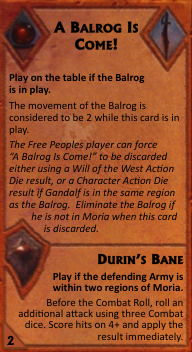
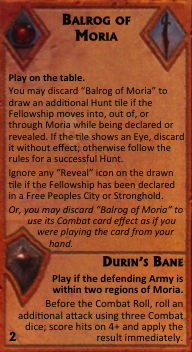
.

diff --git a/projects/wotr/src/lib/examples/there-is-another-way.ts b/projects/wotr/src/lib/examples/there-is-another-way.ts
@@ -1,0 +1,143 @@
+// https://www.youtube.com/watch?v=6kDLffpqd9A&ab_channel=WaroftheRingChamp
+
+import { WotrActionToken } from "../action-token/wotr-action-token.models";
+import { attack, combatCard, noCombatCard, reRollCombatDice, rollCombatDice } from "../battle/wotr-battle-actions";
+import { discardCardFromTable, drawCards, playCardOnTable } from "../card/wotr-card-actions";
+import { chooseRandomCompanion, eliminateCharacter, playCharacter, separateCompanions } from "../character/wotr-character-actions";
+import { changeGuide, corruptFellowship, declareFellowship, hideFellowship, moveFelloswhip, notDeclareFellowship, revealFellowship } from "../fellowship/wotr-fellowship-actions";
+import { WotrFreePeoplesStoryComposer, WotrShadowStoryComposer, WotrStoryDoc } from "../game/wotr-story.models";
+import { addHuntTile, drawHuntTile, reRollHuntDice, rollHuntDice } from "../hunt/wotr-hunt-actions";
+import { advanceNation } from "../nation/wotr-nation-actions";
+import { eliminateLeader, eliminateRegularUnit, leftUnits, moveArmy } from "../unit/wotr-unit-actions";
+import { elite, nazgul, regular } from "../unit/wotr-unit.models";
+
+let time = 1;
+export const stories: WotrStoryDoc[] = [
+  // Turn 1
+  fp (time).phaseStory (drawCards ("Swords in Eriador", "Challenge of the King")),
+  s ().phaseStory (drawCards ("Return to Valinor", "Balrog of Moria")),
+  fp ().phaseStory (notDeclareFellowship ()),
+  s ().huntAllocation (1),
+  fp (time).rollActionDice ("character", "muster-army", "character", "character"),
+  s ().rollActionDice ("muster-army", "muster-army", "muster", "character", "army", "eye"),
+  fp ().pass (),
+  s ().musterDie (advanceNation ("isengard")),
+  fp ().characterDie (moveFelloswhip ()),
+  s ().huntStory (rollHuntDice (4, 5)),
+  s ().characterDie (moveArmy ("barad-dur", "gorgoroth")),
+  fp ().characterDie (moveFelloswhip ()),
+  s ().huntStory (rollHuntDice (2, 6)),
+  s ().huntStory (drawHuntTile ("3")),
+  fp ().huntStory (
+    eliminateCharacter ("gandalf-the-grey"),
+    changeGuide ("strider")
+  ),
+  s ().armyDie (
+    moveArmy ("gorgoroth", "morannon", leftUnits (regular ("sauron", 3))),
+    moveArmy ("north-dunland", "moria")
+  ),
+  fp ().musterArmyDie (
+    moveArmy ("edoras", "westemnet"),
+    moveArmy ("carrock", "old-forest-road")
+  ),
+  s ().musterArmyDie (playCharacter ("orthanc", "saruman")),
+  fp ().characterDie (moveFelloswhip ()),
+  s ().huntStory (rollHuntDice (6, 2)),
+  s ().huntStory (drawHuntTile ("2r")),
+  fp ().huntStory (corruptFellowship (2)),
+  fp ().huntStory (revealFellowship ("goblins-gate")),
+  s ().musterArmyDie (
+    moveArmy ("moria", "dimrill-dale"),
+    moveArmy ("morannon", "dagorlad")
+  ),
+  fp ().skipTokens (),
+  // Turn 2 4:00
+  s (time).phaseStory (drawCards ("Give it to Uss!", "Threats and Promises")),
+  fp ().phaseStory (drawCards ("Axe and Bow", "Grimbeorn the Old, Son of Beorn")),
+  s ().huntAllocation (1),
+  fp (time).rollActionDice ("event", "muster", "character", "will-of-the-west"),
+  s ().rollActionDice ("army", "event", "eye", "army", "muster", "army", "event"),
+  fp ().musterAbilityDie ("strider", hideFellowship ()),
+  s ().eventDie (drawCards ("The Shadow Lengthens")),
+  fp ().willOfTheWestDie (playCharacter ("fangorn", "gandalf-the-white")),
+  s ().armyDie (
+    moveArmy ("dagorlad", "noman-lands"),
+    moveArmy ("far-harad", "near-harad")
+  ),
+  fp ().pass (),
+  s ().armyDie (
+    moveArmy ("noman-lands", "southern-rhovanion"),
+    moveArmy ("dol-guldur", "north-anduin-vale")
+  ),
+  fp ().pass (),
+  s ().armyDie (
+    moveArmy ("southern-rhovanion", "northern-rhovanion"),
+    moveArmy ("north-anduin-vale", "dimrill-dale")
+  ),
+  fp ().characterDie (moveFelloswhip ()),
+  s ().huntStory (rollHuntDice (3, 6)),
+  s ().huntStory (drawHuntTile ("3")),
+  fp ().huntStory (chooseRandomCompanion ("peregrin")),
+  fp ().characterReaction ("peregrin", separateCompanions ("carrock", "peregrin")),
+  fp ().huntStory (corruptFellowship (2)),
+  s ().musterDie (advanceNation ("sauron")),
+  fp ().eventDieCard ("Axe and Bow", playCardOnTable ("Axe and Bow")),
+  s ().eventDieCard ("Give it to Uss!", addHuntTile ("r1rs")),
+  fp ().skipTokens (),
+  // Turn 3 6:57
+  s (time).phaseStory (drawCards ("Lure of the Ring", "Stormcrow")),
+  fp ().phaseStory (drawCards ("The Ents Awake: Treebeard", "Kindred of Glorfindel")),
+  fp ().phaseStory (declareFellowship ("old-ford")),
+  s ().huntAllocation (1),
+  s (time).rollActionDice ("event", "character", "event", "event", "eye", "army", "character"),
+  fp ().rollActionDice ("muster-army", "will-of-the-west", "will-of-the-west", "will-of-the-west", "character"),
+  fp ().characterDie (moveFelloswhip ()),
+  s ().huntStory (rollHuntDice (4, 6)),
+  s ().huntStory (drawHuntTile ("0r")),
+  fp ().huntStory (revealFellowship ("carrock")),
+  s ().characterDie (attack ("northern-rhovanion", "old-forest-road")),
+  s ().battleStory (noCombatCard ()),
+  fp ().battleStory (combatCard ("Grimbeorn the Old, Son of Beorn")),
+  fp ().combatCardReaction ("Grimbeorn the Old, Son of Beorn", moveArmy ("old-forest-road", "woodland-realm")),
+  s ().battleStory (moveArmy ("northern-rhovanion", "old-forest-road")),
+  fp ().musterArmyAbilityDie ("strider", hideFellowship ()),
+  s ().armyDie (
+    moveArmy ("old-forest-road", "carrock", leftUnits (regular ("sauron", 8), elite ("sauron"), nazgul (1))),
+    moveArmy ("near-harad", "umbar", leftUnits (regular ("southrons", 1)))
+  ),
+  fp ().pass (),
+  s ().characterDie (attack ("old-forest-road", "dale")),
+  s ().battleStory (combatCard ("Stormcrow")),
+  fp ().battleStory (noCombatCard ()),
+  s (time).battleStory (rollCombatDice (1, 1, 1, 1, 1)),
+  fp ().battleStory (rollCombatDice (6)),
+  s ().battleStory (reRollCombatDice (1)),
+  s ().battleStory (eliminateRegularUnit ("old-forest-road", "sauron")),
+  fp ().combatCardReaction ("Stormcrow", eliminateRegularUnit ("dale", "north"), eliminateLeader ("dale", "north")),
+  s ().battleStory (moveArmy ("old-forest-road", "dale", leftUnits (regular ("sauron")))),
+  fp ().willOfTheWestDie (
+    moveArmy ("iron-hills", "erebor"),
+    moveArmy ("westemnet", "helms-deep")
+  ),
+  s ().eventDie (drawCards ("The Black Captain Commands")),
+  fp ().willOfTheWestDie (moveFelloswhip ()),
+  s ().huntStory (rollHuntDice (1, 2)),
+  s ().huntStory (reRollHuntDice (1, 6)),
+  s ().huntStory (drawHuntTile ("1")),
+  fp ().huntStory (discardCardFromTable ("Axe and Bow")),
+  s ().eventDieCard ("Balrog of Moria", playCardOnTable ("Balrog of Moria")),
+  fp ().actionToken ("political-advance", advanceNation ("elves")),
+  s ().eventDieCard ("The Shadow Lengthens",
+    moveArmy ("south-rhun", "north-rhun"),
+    moveArmy ("nurn", "minas-morgul")
+  ),
+  fp ().willOfTheWestDie (advanceNation ("elves")),
+  fp ().skipTokens (),
+  // Turn 4 17:47
+
+];
+
+export const fpTokens: WotrActionToken[] = ["draw-card", "political-advance"];
+
+function fp (t?: number) { if (!t) { t = time++; } return new WotrFreePeoplesStoryComposer (t); }
+function s (t?: number) { if (!t) { t = time++; } return new WotrShadowStoryComposer (t); }

diff --git a/projects/wotr/src/lib/card/wotr-card.models.ts b/projects/wotr/src/lib/card/wotr-card.models.ts
@@ -36,7 +36,7 @@ export type WotrCardLabel =
   "Phial of Galadriel" |
   "Smeagol Helps Nice Master" |
   "Mithril Coat and Sting" |
-  "Axe and Box" |
+  "Axe and Bow" |
   "Horns of Gondor" |
   "Wizard's Staff" |
   "Athelas" |
@@ -95,7 +95,7 @@ export type WotrCardLabel =
   "The Breaking of the Fellowship" |
   "Worn with Sorrow and Toil" |
   "Flocks of Crebain" |
-  "A Balrog is Come!" |
+  "Balrog of Moria" |
   "The Lidless Eye" |
   "Dreadful Spells" |
   "Grond, Hammer of the Unnderworld" |
@@ -174,7 +174,7 @@ const CARD_BY_ID: Record<WotrCardId, WotrCard> = {
   fpcha03: { id: "fpcha03", label: "Phial of Galadriel", combatLabel: "It is a Gift", combatTiming: 3 },
   fpcha04: { id: "fpcha04", label: "Smeagol Helps Nice Master", combatLabel: "It is a Gift", combatTiming: 3 },
   fpcha05: { id: "fpcha05", label: "Mithril Coat and Sting", combatLabel: "Blade of Westernesse", combatTiming: 6 },
-  fpcha06: { id: "fpcha06", label: "Axe and Box", combatLabel: "Mighty Attack", combatTiming: 4 },
+  fpcha06: { id: "fpcha06", label: "Axe and Bow", combatLabel: "Mighty Attack", combatTiming: 4 },
   fpcha07: { id: "fpcha07", label: "Horns of Gondor", combatLabel: "Mighty Attack", combatTiming: 4 },
   fpcha08: { id: "fpcha08", label: "Wizard's Staff", combatLabel: "Servant of the Secret Fire", combatTiming: 3 },
   fpcha09: { id: "fpcha09", label: "Athelas", combatLabel: "Anduril", combatTiming: 4 },
@@ -233,7 +233,7 @@ const CARD_BY_ID: Record<WotrCardId, WotrCard> = {
   scha14: { id: "scha14", label: "The Breaking of the Fellowship", combatLabel: "Dread and Despair", combatTiming: 3 },
   scha15: { id: "scha15", label: "Worn with Sorrow and Toil", combatLabel: "Words of Power", combatTiming: 1 },
   scha16: { id: "scha16", label: "Flocks of Crebain", combatLabel: "They are Terrible", combatTiming: 4 },
-  scha17: { id: "scha17", label: "A Balrog is Come!", combatLabel: "Durin's Bane", combatTiming: 2 },
+  scha17: { id: "scha17", label: "Balrog of Moria", combatLabel: "Durin's Bane", combatTiming: 2 },
   scha18: { id: "scha18", label: "The Lidless Eye", combatLabel: "Words of Power", combatTiming: 1 },
   scha19: { id: "scha19", label: "Dreadful Spells", combatLabel: "Delivery of Orthanc", combatTiming: 3 },
   scha20: { id: "scha20", label: "Grond, Hammer of the Unnderworld", combatLabel: "Dread and Despair", combatTiming: 3 },
@@ -272,6 +272,6 @@ const CARD_BY_LABEL =
 
 export function labelToCardId (label: WotrCardLabel): WotrCardId { return CARD_BY_LABEL[label].id; }
 
-export function cardToLabel (cardId: WotrCardId): string { return CARD_BY_ID[cardId].label; }
+export function cardToLabel (cardId: WotrCardId): WotrCardLabel { return CARD_BY_ID[cardId].label; }
 export function combatCardToLabel (cardId: WotrCardId): string { return CARD_BY_ID[cardId].combatLabel; }
 export function getCard (cardId: WotrCardId): WotrCard { return CARD_BY_ID[cardId]; }

diff --git a/projects/wotr/src/lib/game/wotr-story.service.ts b/projects/wotr/src/lib/game/wotr-story.service.ts
@@ -3,6 +3,7 @@ import { ABgGameService, BgAuthService, unexpectedStory } from "@leobg/commons";
 import { Subject, firstValueFrom, from } from "rxjs";
 import { WotrArmyNotRetreat, WotrArmyNotRetreatIntoSiege, WotrArmyRetreat, WotrArmyRetreatIntoSiege, WotrBattleCease, WotrBattleContinue, WotrCombatCardChoose, WotrCombatCardChooseNot, WotrCombatReRoll, WotrCombatRoll, WotrLeaderForfeit } from "../battle/wotr-battle-actions";
 import { WotrCombatDie } from "../battle/wotr-combat-die.models";
+import { WotrCardDiscardFromTable } from "../card/wotr-card-actions";
 import { WotrCardParams } from "../card/wotr-card-effects.service";
 import { WotrCardId } from "../card/wotr-card.models";
 import { WotrCharacterElimination, WotrCompanionRandom, WotrCompanionSeparation } from "../character/wotr-character-actions";
@@ -270,11 +271,11 @@ export class WotrStoryService extends ABgGameService<WotrFrontId, WotrPlayer, Wo
     this.findAction<WotrCompanionSeparation> (story, "companion-separation");
   }
 
-  async absorbHuntDamage (front: WotrFrontId): Promise<(WotrFellowshipCorruption | WotrCharacterElimination | WotrCompanionRandom | WotrFellowshipReveal)[]> {
+  async absorbHuntDamage (front: WotrFrontId): Promise<(WotrFellowshipCorruption | WotrCharacterElimination | WotrCompanionRandom | WotrFellowshipReveal | WotrCardDiscardFromTable)[]> {
     const story = await this.story (front, p => p.absorbHuntDamage! ());
-    const actions = this.filterActions<WotrFellowshipCorruption | WotrCharacterElimination | WotrCompanionRandom | WotrFellowshipReveal> (
+    const actions = this.filterActions<WotrFellowshipCorruption | WotrCharacterElimination | WotrCompanionRandom | WotrFellowshipReveal | WotrCardDiscardFromTable> (
       story,
-      "fellowship-corruption", "character-elimination", "companion-random", "fellowship-reveal");
+      "fellowship-corruption", "character-elimination", "companion-random", "fellowship-reveal", "card-discard-from-table");
     return actions;
   }
 

diff --git a/projects/wotr/src/lib/hunt/wotr-hunt-flow.service.ts b/projects/wotr/src/lib/hunt/wotr-hunt-flow.service.ts
@@ -1,5 +1,7 @@
 import { Injectable, inject } from "@angular/core";
 import { WotrCombatDie } from "../battle/wotr-combat-die.models";
+import { cardToLabel } from "../card/wotr-card.models";
+import { WotrCharacterId } from "../character/wotr-character.models";
 import { WotrCharacterStore } from "../character/wotr-character.store";
 import { WotrFellowshipStore } from "../fellowship/wotr-fellowship.store";
 import { WotrStoryService } from "../game/wotr-story.service";
@@ -152,6 +154,20 @@ export class WotrHuntFlowService {
             absorbedDamage += 1;
             gollumRevealing = true;
           }
+          break;
+        }
+        case "companion-random": {
+          absorbedDamage += await this.checkTakeThemAlive (action.companions);
+          break;
+        }
+        case "card-discard-from-table": {
+          // const cardLabel =  as WotrCardLabel;
+          switch (cardToLabel (action.card)) {
+            case "Axe and Bow": {
+              absorbedDamage += 1;
+              break;
+            }
+          }
         }
       }
     }
@@ -160,6 +176,19 @@ export class WotrHuntFlowService {
     } else {
       return { absorbedDamage };
     }
+  }
+
+  private async checkTakeThemAlive (companions: WotrCharacterId[]): Promise<number> {
+    let absorbedDamage = 0;
+    for (const companion of companions) {
+      if (companion === "peregrin" || companion === "meriadoc") {
+        const actions = await this.storyService.activateCharacterAbility (companion, "free-peoples");
+        if (actions) {
+          absorbedDamage++;
+        }
+      }
+    }
+    return absorbedDamage;
   }
 
 }

diff --git a/projects/wotr/src/lib/game/wotr-story.models.ts b/projects/wotr/src/lib/game/wotr-story.models.ts
@@ -78,6 +78,7 @@ export class WotrFrontStoryComposer {
   protected actionElvenRingDie (die: WotrActionDie, elvenRing: WotrElvenRing, ...actions: WotrGameAction[]): WotrStoryDoc & WotrDieStory { return { type: "die", die, elvenRing, actions, ...this.story () }; }
   
   musterAbilityDie (character: WotrCharacterId, ...actions: WotrGameAction[]): WotrStoryDoc & WotrDieStory { return this.actionAbilityDie ("muster", character, ...actions); }
+  musterArmyAbilityDie (character: WotrCharacterId, ...actions: WotrGameAction[]): WotrStoryDoc & WotrDieStory { return this.actionAbilityDie ("muster-army", character, ...actions); }
   protected actionAbilityDie (die: WotrActionDie, character: WotrCharacterId, ...actions: WotrGameAction[]): WotrStoryDoc & WotrDieStory { return { type: "die", die, character, actions, ...this.story () }; }
 
   eventDieCard (card: WotrCardLabel, ...actions: WotrGameAction[]): WotrStoryDoc & WotrDieCardStory { return this.actionDieCard ("event", card, ...actions); }

diff --git a/projects/wotr/src/lib/game/wotr-game.component.ts b/projects/wotr/src/lib/game/wotr-game.component.ts
@@ -12,7 +12,7 @@ import { WotrCharacterService } from "../character/wotr-character.service";
 import { WotrCharacterStore } from "../character/wotr-character.store";
 import { WotrActionService } from "../commons/wotr-action.service";
 import { WotrEventService } from "../commons/wotr-event.service";
-import { stories as exampleStories } from "../examples/very-late-minions";
+import { stories as exampleStories } from "../examples/there-is-another-way";
 import { WotrFellowshipService } from "../fellowship/wotr-fellowship.service";
 import { WotrFellowshipStore } from "../fellowship/wotr-fellowship.store";
 import { WotrFrontService } from "../front/wotr-front.service";

diff --git a/projects/wotr/src/lib/examples/wotr-example-button.ts b/projects/wotr/src/lib/examples/wotr-example-button.ts
@@ -57,7 +57,8 @@ export class WotrExampleButton implements OnDestroy {
   protected isAdmin = computed (() => this.user ()?.email === "rhapsody.leo@gmail.com");
 
   protected exampleGames: WotrExampleGame[] = [
-    { id: "very-late-minion", name: "Very Late Minions", loadStories: () => import ("./very-late-minions").then (e => e.stories) }
+    { id: "very-late-minions", name: "Very Late Minions", loadStories: () => import ("./very-late-minions").then (e => e.stories) },
+    { id: "there-is-another-way", name: "There is Another Way", loadStories: () => import ("./there-is-another-way").then (e => e.stories) }
   ];
 
   ngOnDestroy () { }

diff --git a/projects/wotr/src/lib/examples/very-late-minions.ts b/projects/wotr/src/lib/examples/very-late-minions.ts
@@ -97,9 +97,8 @@ export const stories: WotrStoryDoc[] = [
   fp ().eventDieCard ("Celeborn's Galadhrim",
     recruitEliteUnit ("lorien", "elves"),
     drawCards ("Riders of Theoden")),
-  s ().eventDieCard ("Nazgul Search",
-    moveNazgul ("minas-morgul", "old-ford"),
-    revealFellowship ("carrock")),
+  s ().eventDieCard ("Nazgul Search", moveNazgul ("minas-morgul", "old-ford")),
+  fp ().cardReaction ("Nazgul Search", revealFellowship ("carrock")),
   fp ().pass (),
   s ().musterArmyDie (attack ("northern-rhovanion", "old-forest-road")),
   s ().battleStory (noCombatCard ()),

diff --git a/projects/wotr/docs/c4-the-game-turn.md b/projects/wotr/docs/c4-the-game-turn.md
@@ -1,0 +1,64 @@
+
+✔
+❌
+❕
+
+# War of the Ring Rules
+
+## CHAPTER IV: THE GAME TURN
+|  |  |  |
+|---|---|---|
+|  | WOTR.4.1 | **SUMMARY OF THE TURN** The phases of the turn are: Phase 1) Recover Action Dice and Draw Event Cards, Phase 2) Fellowship Phase, Phase 3) Hunt Allocation, Phase 4) Action Roll, Phase 5) Action Resolution, Phase 6) Victory Check. |
+|  | WOTR.4.1 | **ACTION DICE POOL** The Shadow player starts the game with seven dice in his pool. |
+|  | WOTR.4.1 | But may gain additional dice later in the game, up to a maximum of ten. These additional Action Dice enter play when the Shadow player brings his Minions into the game (one die for Saruman, one for the Witch-king, one for the Mouth of Sauron). |
+|  | WOTR.4.1 | The Free Peoples player starts with four dice in his pool. |
+|  | WOTR.4.1 | The Free Peoples player adds one die to his dice pool when Aragorn – Heir to Isildur enters play and another one when Gandalf the White appears. |
+|  | WOTR.4.1 | Both the Shadow and the Free Peoples player lose the additional die if the corresponding Character is eliminated. |
+|  | WOTR.4.1 | When a player gains or loses an Action Die, the gain or loss becomes effective in the next turn: the die is added to, or removed from, the dice pool during the Recover Action Dice and Draw Event Cards phase of the following turn. |
+|  | WOTR.4.1 | **HUNT ALLOCATION AND ACTION ROLL** The Shadow player, during the Hunt Allocation Phase, places the number of Action Dice into the Hunt Box that he wants to devote to the Hunt for the Ring. |
+|  | WOTR.4.1 | If one or more Fellowship Action Dice were in the Hunt Box at the end of the previous turn, he must place a minimum of 1 die in the Hunt Box. |
+|  | WOTR.4.1 | The maximum number of dice he can place in the Hunt Box is equal to the number of Companions currently in the Fellowship (note that the Ring-bearers are not considered to be a Companion and do not add to this maximum). |
+|  | WOTR.4.1 | However, the Shadow player may always place at least one die in the Hunt Box, even if all the Companions have left the Fellowship. |
+|  | WOTR.4.1 | The dice placed in the Hunt Box are not rolled, but the Shadow player rolls the remaining dice in his dice pool, and all dice showing an “Eye” result are immediately added to the Hunt Box as well. |
+|  | WOTR.4.1 | The Free Peoples player simply rolls his entire Action Dice pool. |
+|  | WOTR.4.1 | **USING ACTION DICE** Starting with the Free Peoples. |
+|  | WOTR.4.1 | Players alternate actions selecting one of their Action Dice and immediately taking the action made available by the specific die result. |
+|  | WOTR.4.1 | When an action has been completed, the corresponding die is considered “used” and is set aside until needed again for the next turn. |
+|  | WOTR.4.1 | The only exception to this rule is that each time the Free Peoples player uses an Action Die to move the Fellowship, he places that die in the Hunt Box after completing the action rather than setting it aside. |
+|  | WOTR.4.1 | If a player has fewer unused Action Dice than his opponent, he can pass instead of taking an action, thus allowing the opponent to take another action. |
+|  | WOTR.4.1 | A player may also choose to skip an action and discard one of his Action Dice without effect, instead of using that die to take an action. |
+|  | WOTR.4.1 | If a player runs out of actions before his opponent has done the same, the opponent executes his remaining actions one after the other. |
+|  | WOTR.4.1 | **THE ELVEN RINGS** When the Free Peoples player uses an Elven Ring, he flips over the counter to show its “Flaming Eye” side and gives it to the Shadow player. |
+|  | WOTR.4.1 | After the Shadow player uses the counter, it is discarded from play. |
+|  | WOTR.4.1 | When a player is about to take an action during the Action Resolution phase, he may use an Elven Ring to change the result shown on one of his unused Action Dice to another Action Die result of his choice. |
+|  | WOTR.4.1 | A player that just used an Elven Ring to change a die result then proceeds to take a regular action, choosing any one Action Die result (not necessarily the one he has just changed with the Elven Ring). |
+|  | WOTR.4.1 | Only one Elven Ring may be used by the same player during the course of a single turn. |
+|  | WOTR.4.1 | The Free Peoples player may not use an Elven Ring to change an action die to a “Will of the West” result. |
+|  | WOTR.4.1 | The Shadow player can use an Elven Ring to change a die result into an “Eye” result (that die is immediately moved to the Hunt Box). |
+|  | WOTR.4.1 | This does not count as an action, so he may then take an action normally. |
+|  | WOTR.4.1 | However, he cannot do the opposite and use an Elven Ring to change the result of an action die already showing an “Eye” result. |
+
+## CHAPTER V: THE EVENT CARDS
+|  |  |  |
+|---|---|---|
+|  | WOTR.5.1 | **DRAWING EVENT CARDS** During the first phase of each game turn (including the first turn) both players must draw one card from each of their decks. |
+|  | WOTR.5.1 | It is also possible for players to draw cards from either deck by using an Action Die result during the Action Resolution phase. |
+|  | WOTR.5.1 | Players may hold a maximum of six cards in their hand at any time and must immediately discard those in excess as soon as the maximum number is exceeded. Cards are discarded face down. |
+|  | WOTR.5.1 | If a deck is depleted during the game, the discarded cards are not reshuffled. It is now no longer possible for the player to draw cards out of that deck. |
+|  | WOTR.5.1 | **PLAYING EVENT CARDS** Event Cards can be played during the Action Resolution phase in two ways: by using an Event Action Die result, |
+|  | WOTR.5.1 | or by using an Action Die result whose icon matches the symbol on the upper right corner of the card. |
+|  | WOTR.5.1 | Generally, Event Cards are discarded as soon as their effects are resolved. |
+|  | WOTR.5.1 | Often, some kind of requirement must be met for the effects of the card to apply; if a requirement is not fully satisfied, the card cannot be played. |
+|  | WOTR.5.1 | If a card reads “Play on the table”, it means that the card is not discarded after it is played, and its effects last until a particular condition or requirement is met after which the card is discarded. |
+|  | WOTR.5.1 | If discarding a card requires the use of an Action Die, discarding the card counts as an action. |
+|  | WOTR.5.1 | Note that if the condition required to play such a card ceases to be met, the card is immediately discarded. |
+|  | WOTR.5.1 | If a card text directs you to “recruit” units or Leaders, these units or Leaders are taken from your available reinforcements. |
+|  | WOTR.5.1 | The actions indicated by an Event Card are mandatory. |
+|  | WOTR.5.1 | However, it can happen that the effects of an Event Card cannot be fully applied. In this case, the card can still be played, and its effects are applied to the maximum extent possible. |
+|  | WOTR.5.1 | **Event Cards Provoking Casualties** Several cards describe effects that may cause a player to remove some figures from play. If all the Army units in an Army are eliminated by the effect of such a card, all Free Peoples Leaders with the Army are immediately removed, while any Nazgûl, Companions, or Minions are left in the region, unless specified differently in the card text. |
+
+
+
+
+
+|  | WOTR.6.1 |  |
